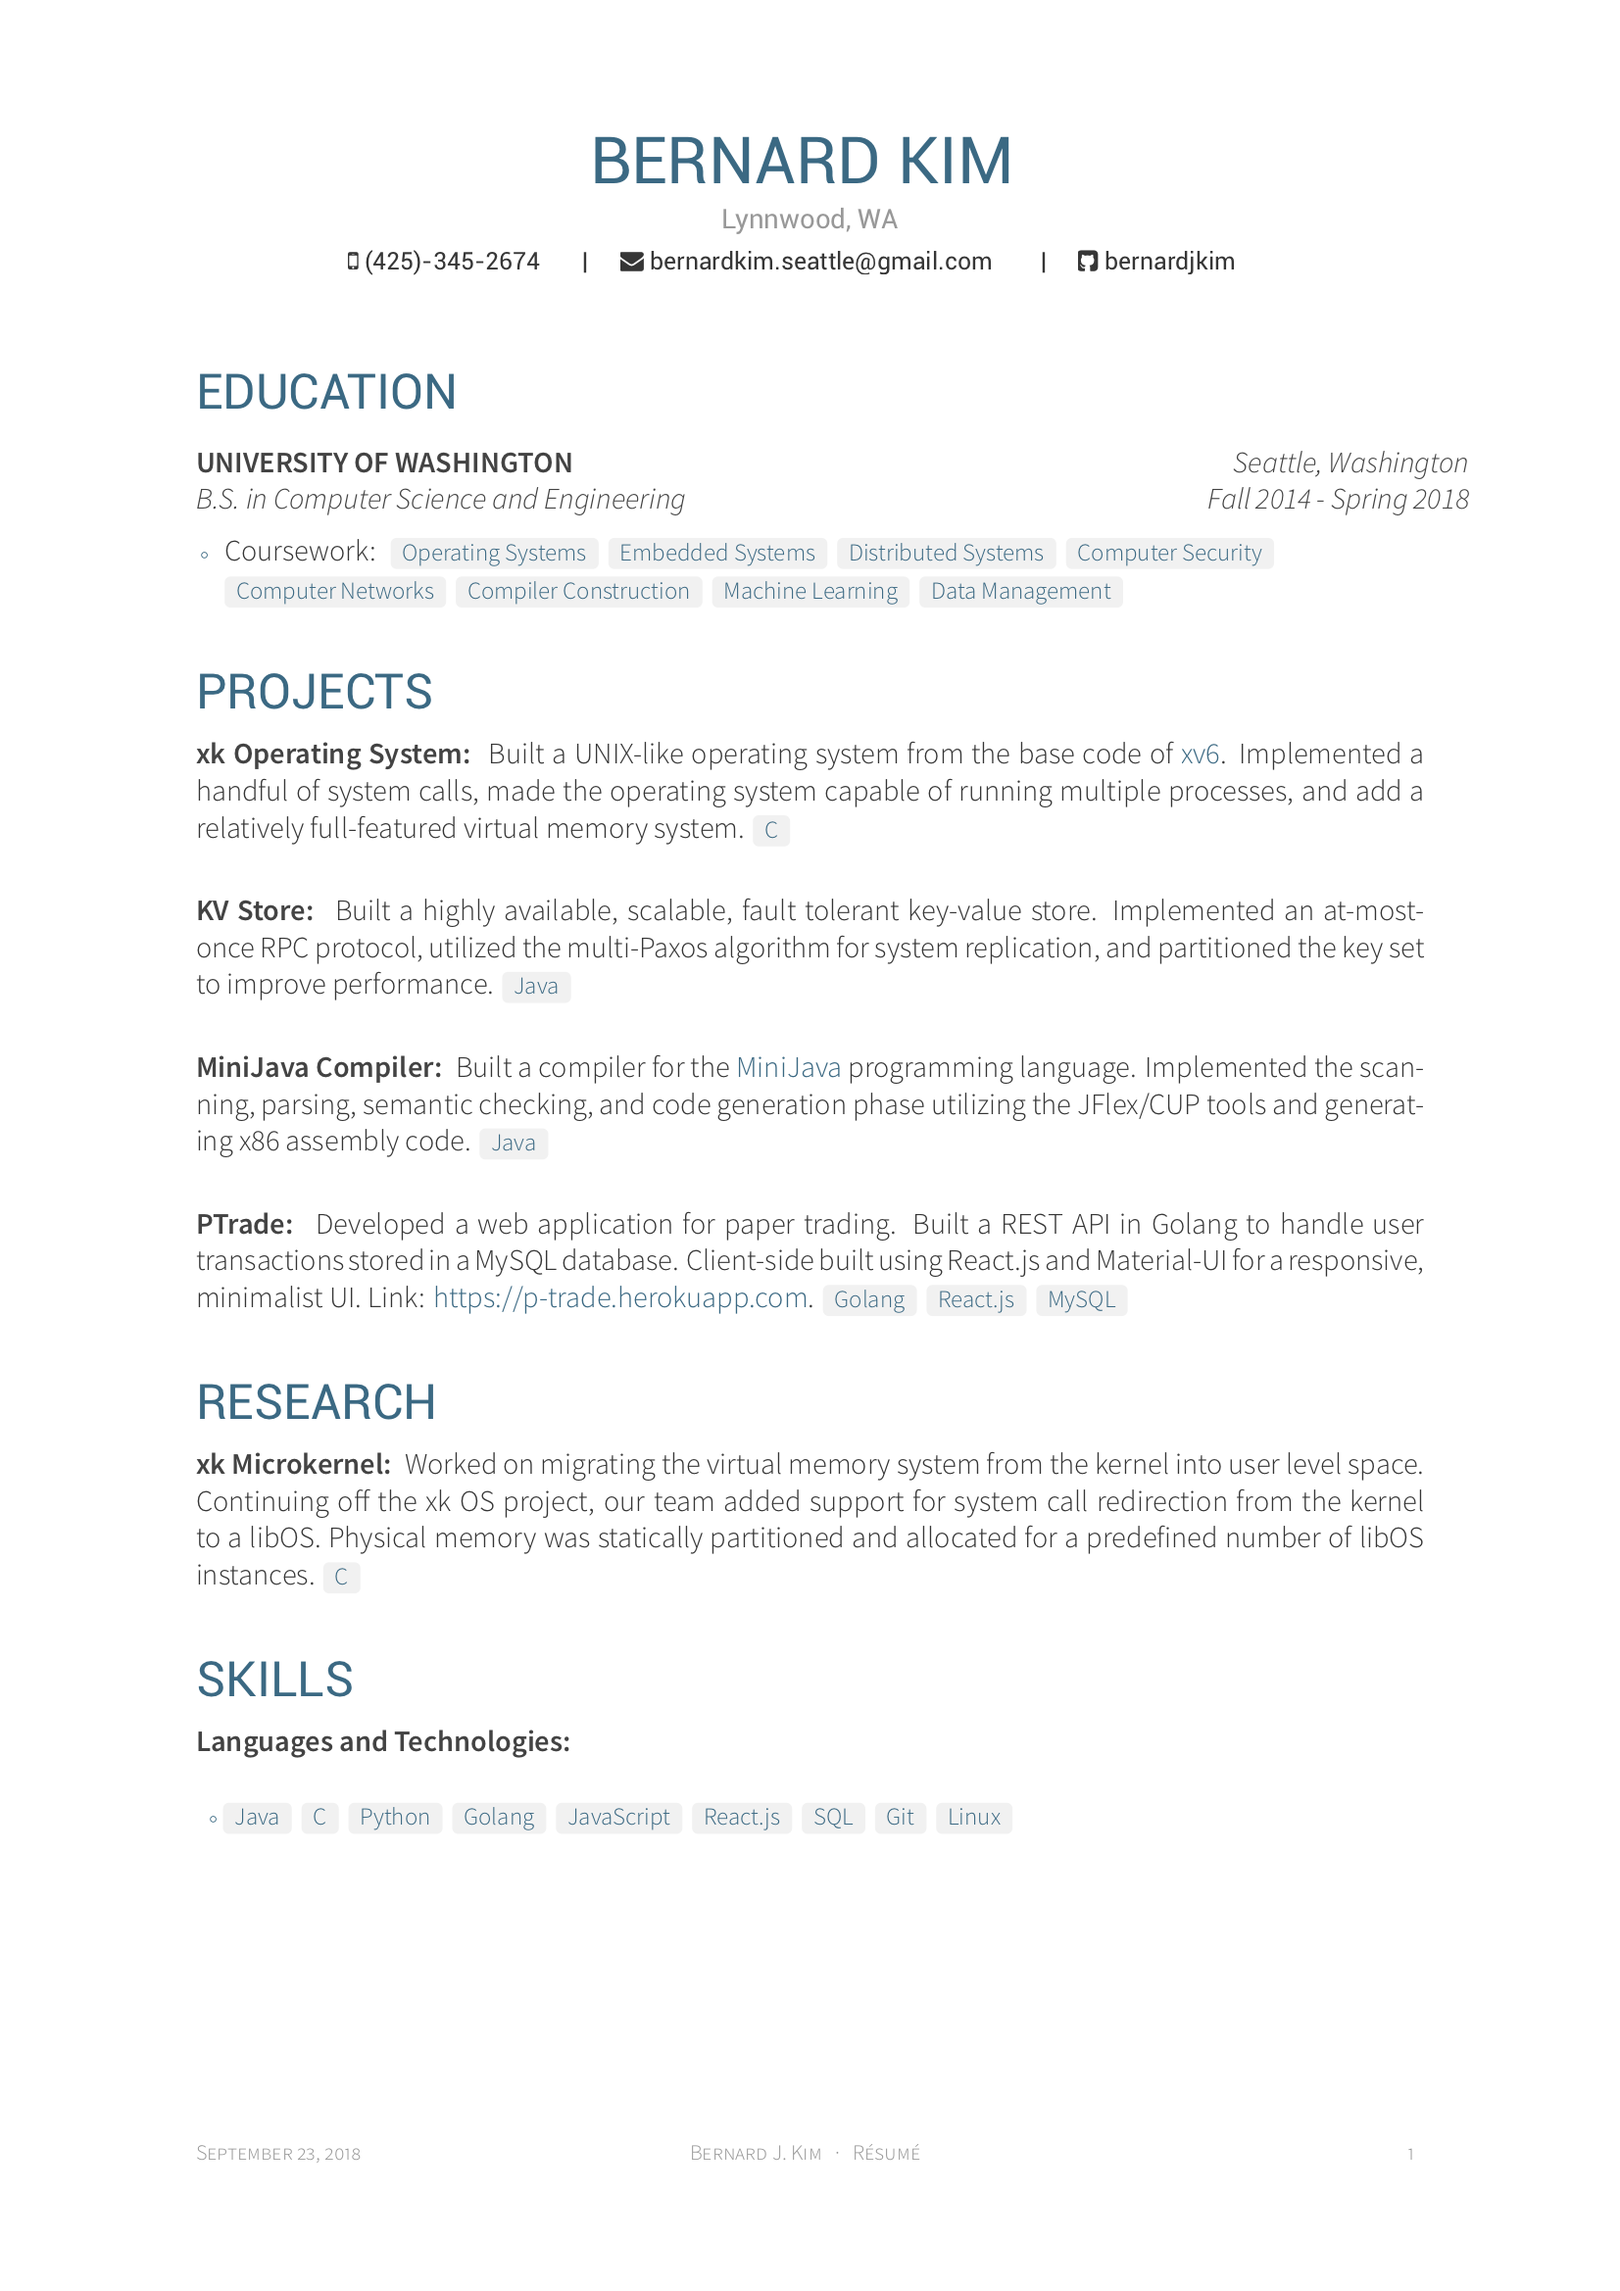
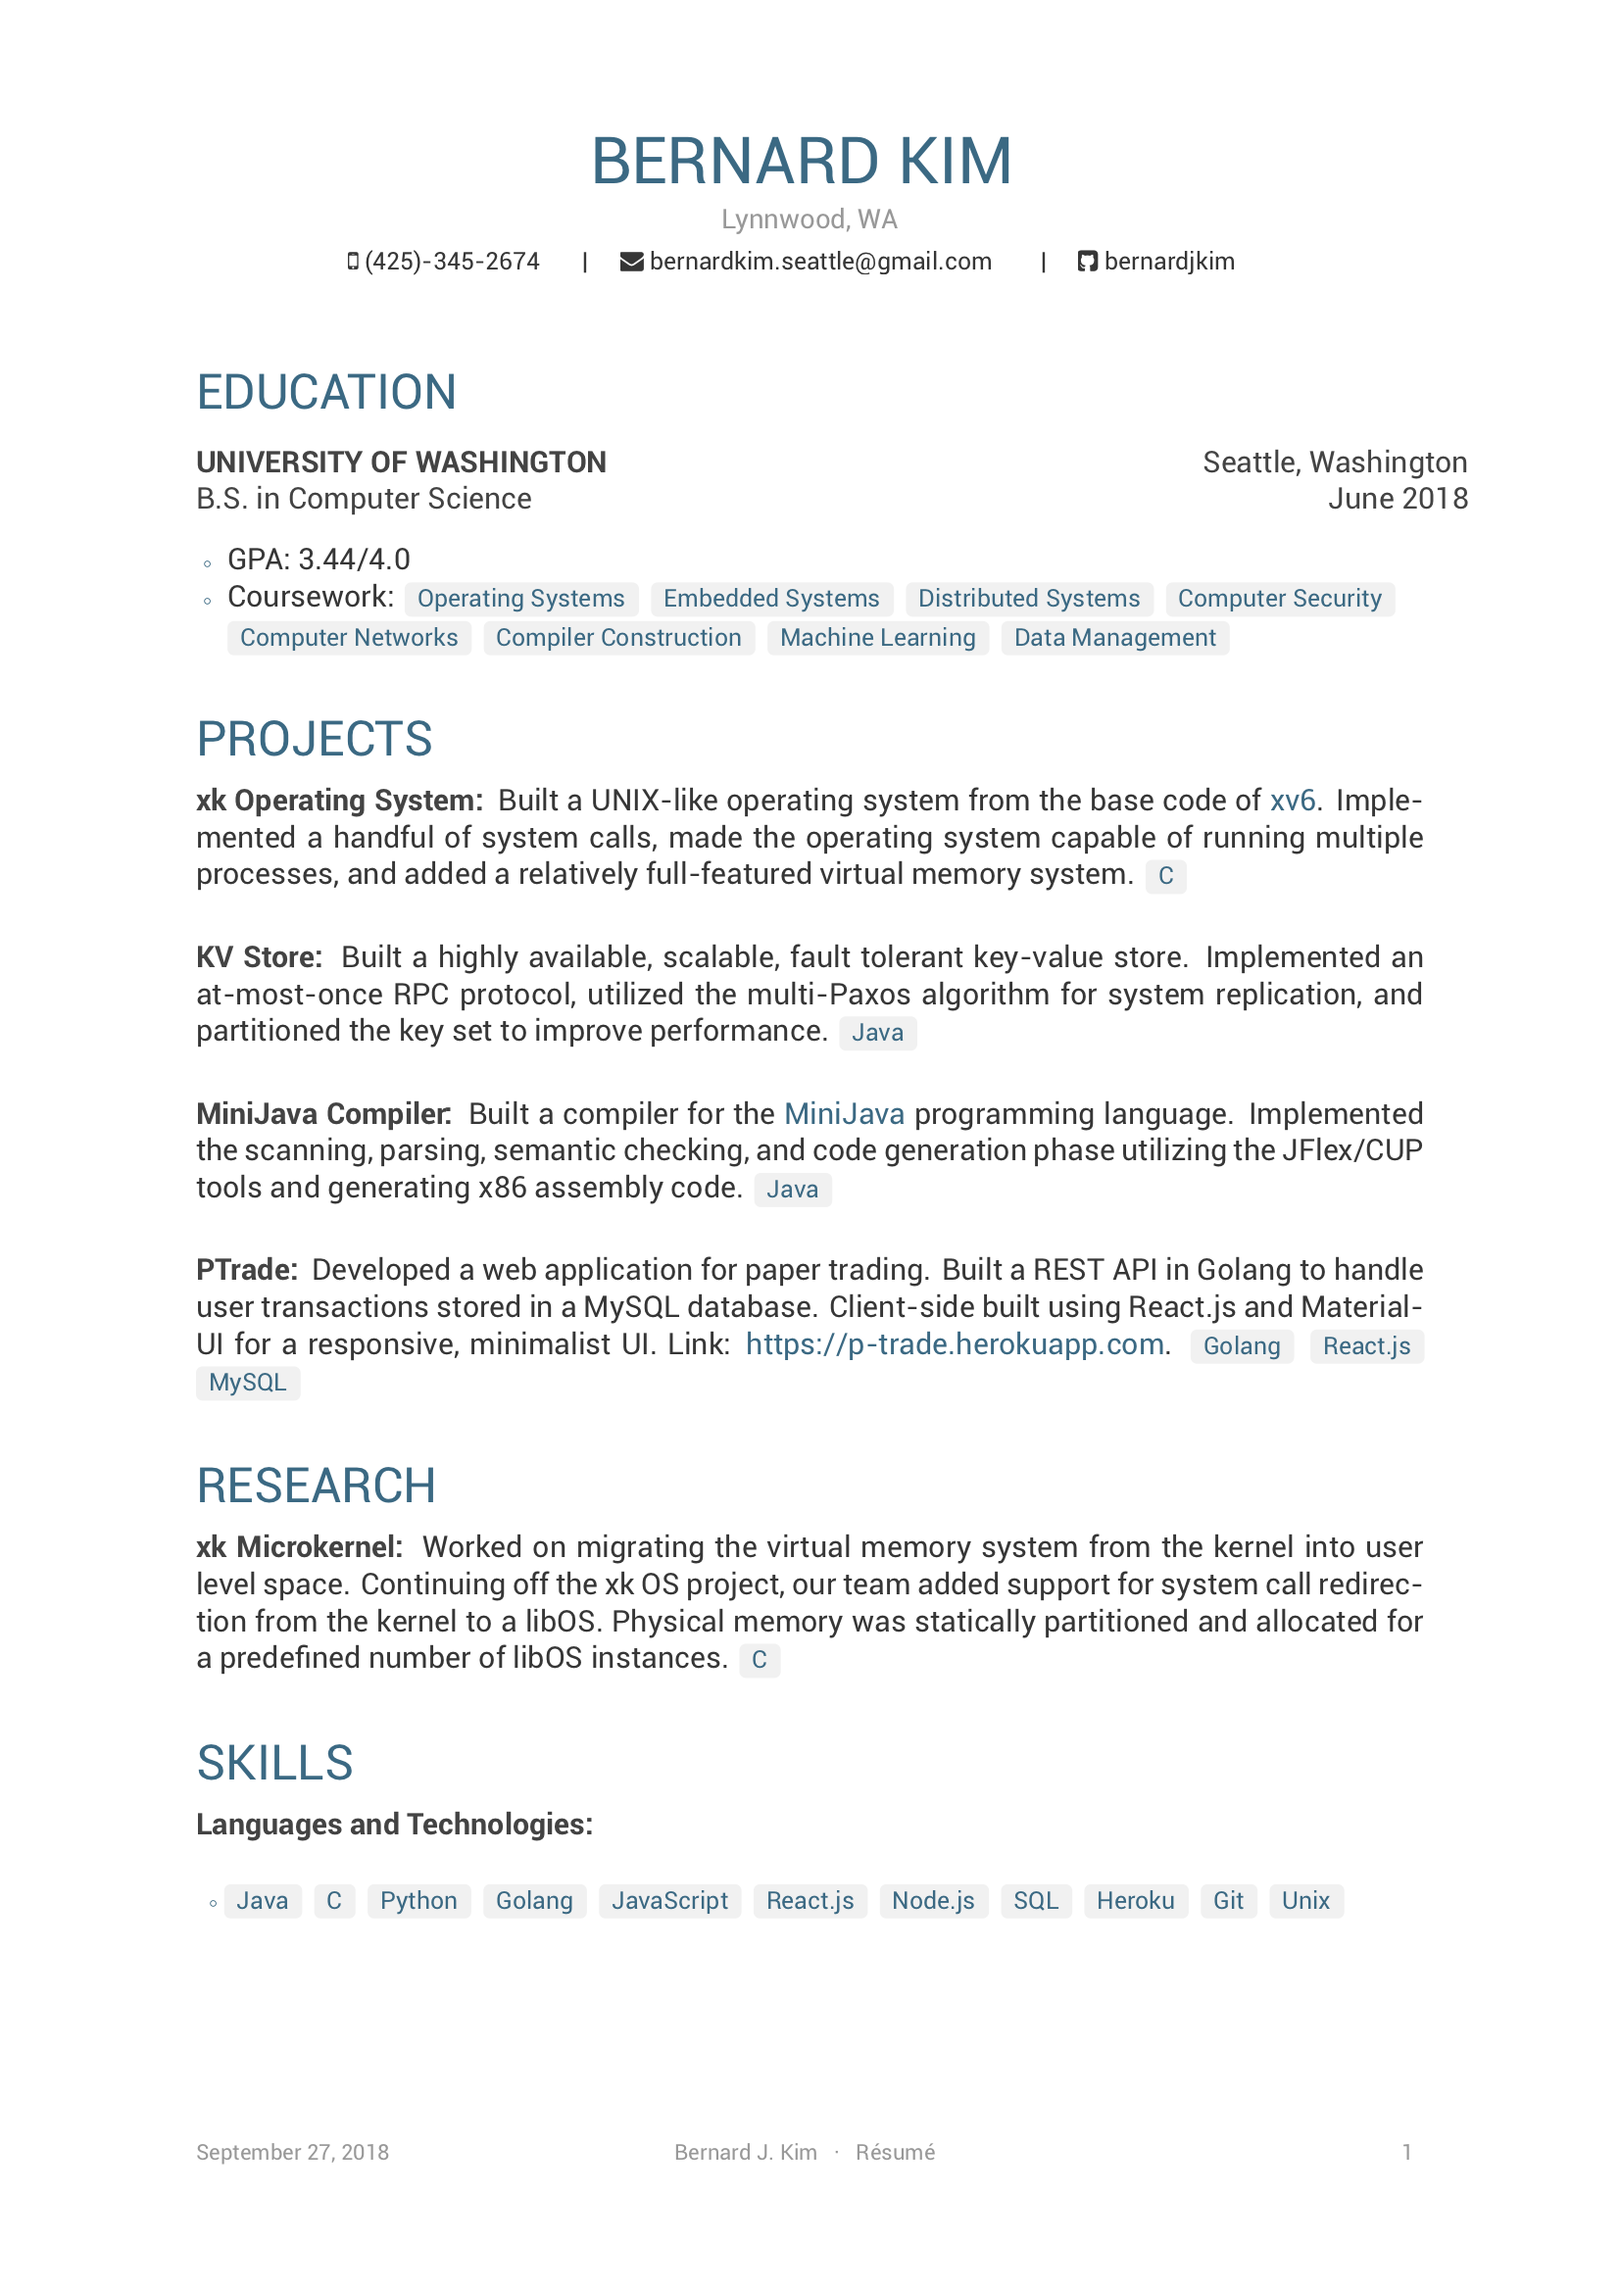
font change

diff --git a/resume/projects.tex b/resume/projects.tex
@@ -2,7 +2,7 @@
 \begin{cvskills}
     
     \cvskill{\textbf{xk Operating System:}}
-    {Built a UNIX-like operating system from the base code of \href{https://pdos.csail.mit.edu/6.828/2012/xv6.html}{\color{blue}{xv6}}. Implemented a handful of system calls, made the operating system capable of running multiple processes, and add a relatively full-featured virtual memory system. \footnotesize{\cvtag{C}}\newline}
+    {Built a UNIX-like operating system from the base code of \href{https://pdos.csail.mit.edu/6.828/2012/xv6.html}{\color{blue}{xv6}}. Implemented a handful of system calls, made the operating system capable of running multiple processes, and added a relatively full-featured virtual memory system. \footnotesize{\cvtag{C}}\newline}
         
     \cvskill{\textbf{KV Store:}}
     {Built a highly available, scalable, fault tolerant key-value store. Implemented an at-most-once RPC protocol, utilized the multi-Paxos algorithm for system replication, and partitioned the key set to improve performance. \footnotesize{\cvtag{Java}}\newline}

diff --git a/resume/education.tex b/resume/education.tex
@@ -1,16 +1,16 @@
 \cvsection{EDUCATION}
 \begin{cventries}
     \cventry
-        {B.S. in Computer Science and Engineering} % Degree
+        {B.S. in Computer Science} % Degree
         {University of Washington} % Institution
         {Seattle, Washington} % Location
-        {Fall 2014 - Spring 2018} % Date(s)
-        {
-            \begin{cvitems} % Description(s) bullet points
+        {June 2018} % Date(s)
+        {\begin{cvitems} % Description(s) bullet points
+                \item
+                    {GPA: 3.44/4.0}
                 \item 
                     {Coursework:
-                        \footnotesize{
-                            \cvtag{Operating Systems}
+                        \footnotesize{\cvtag{Operating Systems}
                             \cvtag{Embedded Systems}
                             \cvtag{Distributed Systems}
                             \cvtag{Computer Security}

diff --git a/resume/skills.tex b/resume/skills.tex
@@ -11,9 +11,11 @@
                 \cvtag{Golang}
                 \cvtag{JavaScript}
                 \cvtag{React.js}
+                \cvtag{Node.js}
                 \cvtag{SQL}
+                \cvtag{Heroku}
                 \cvtag{Git}
-                \cvtag{Linux}
+                \cvtag{Unix}
             }
         }
 \end{cvskills}
